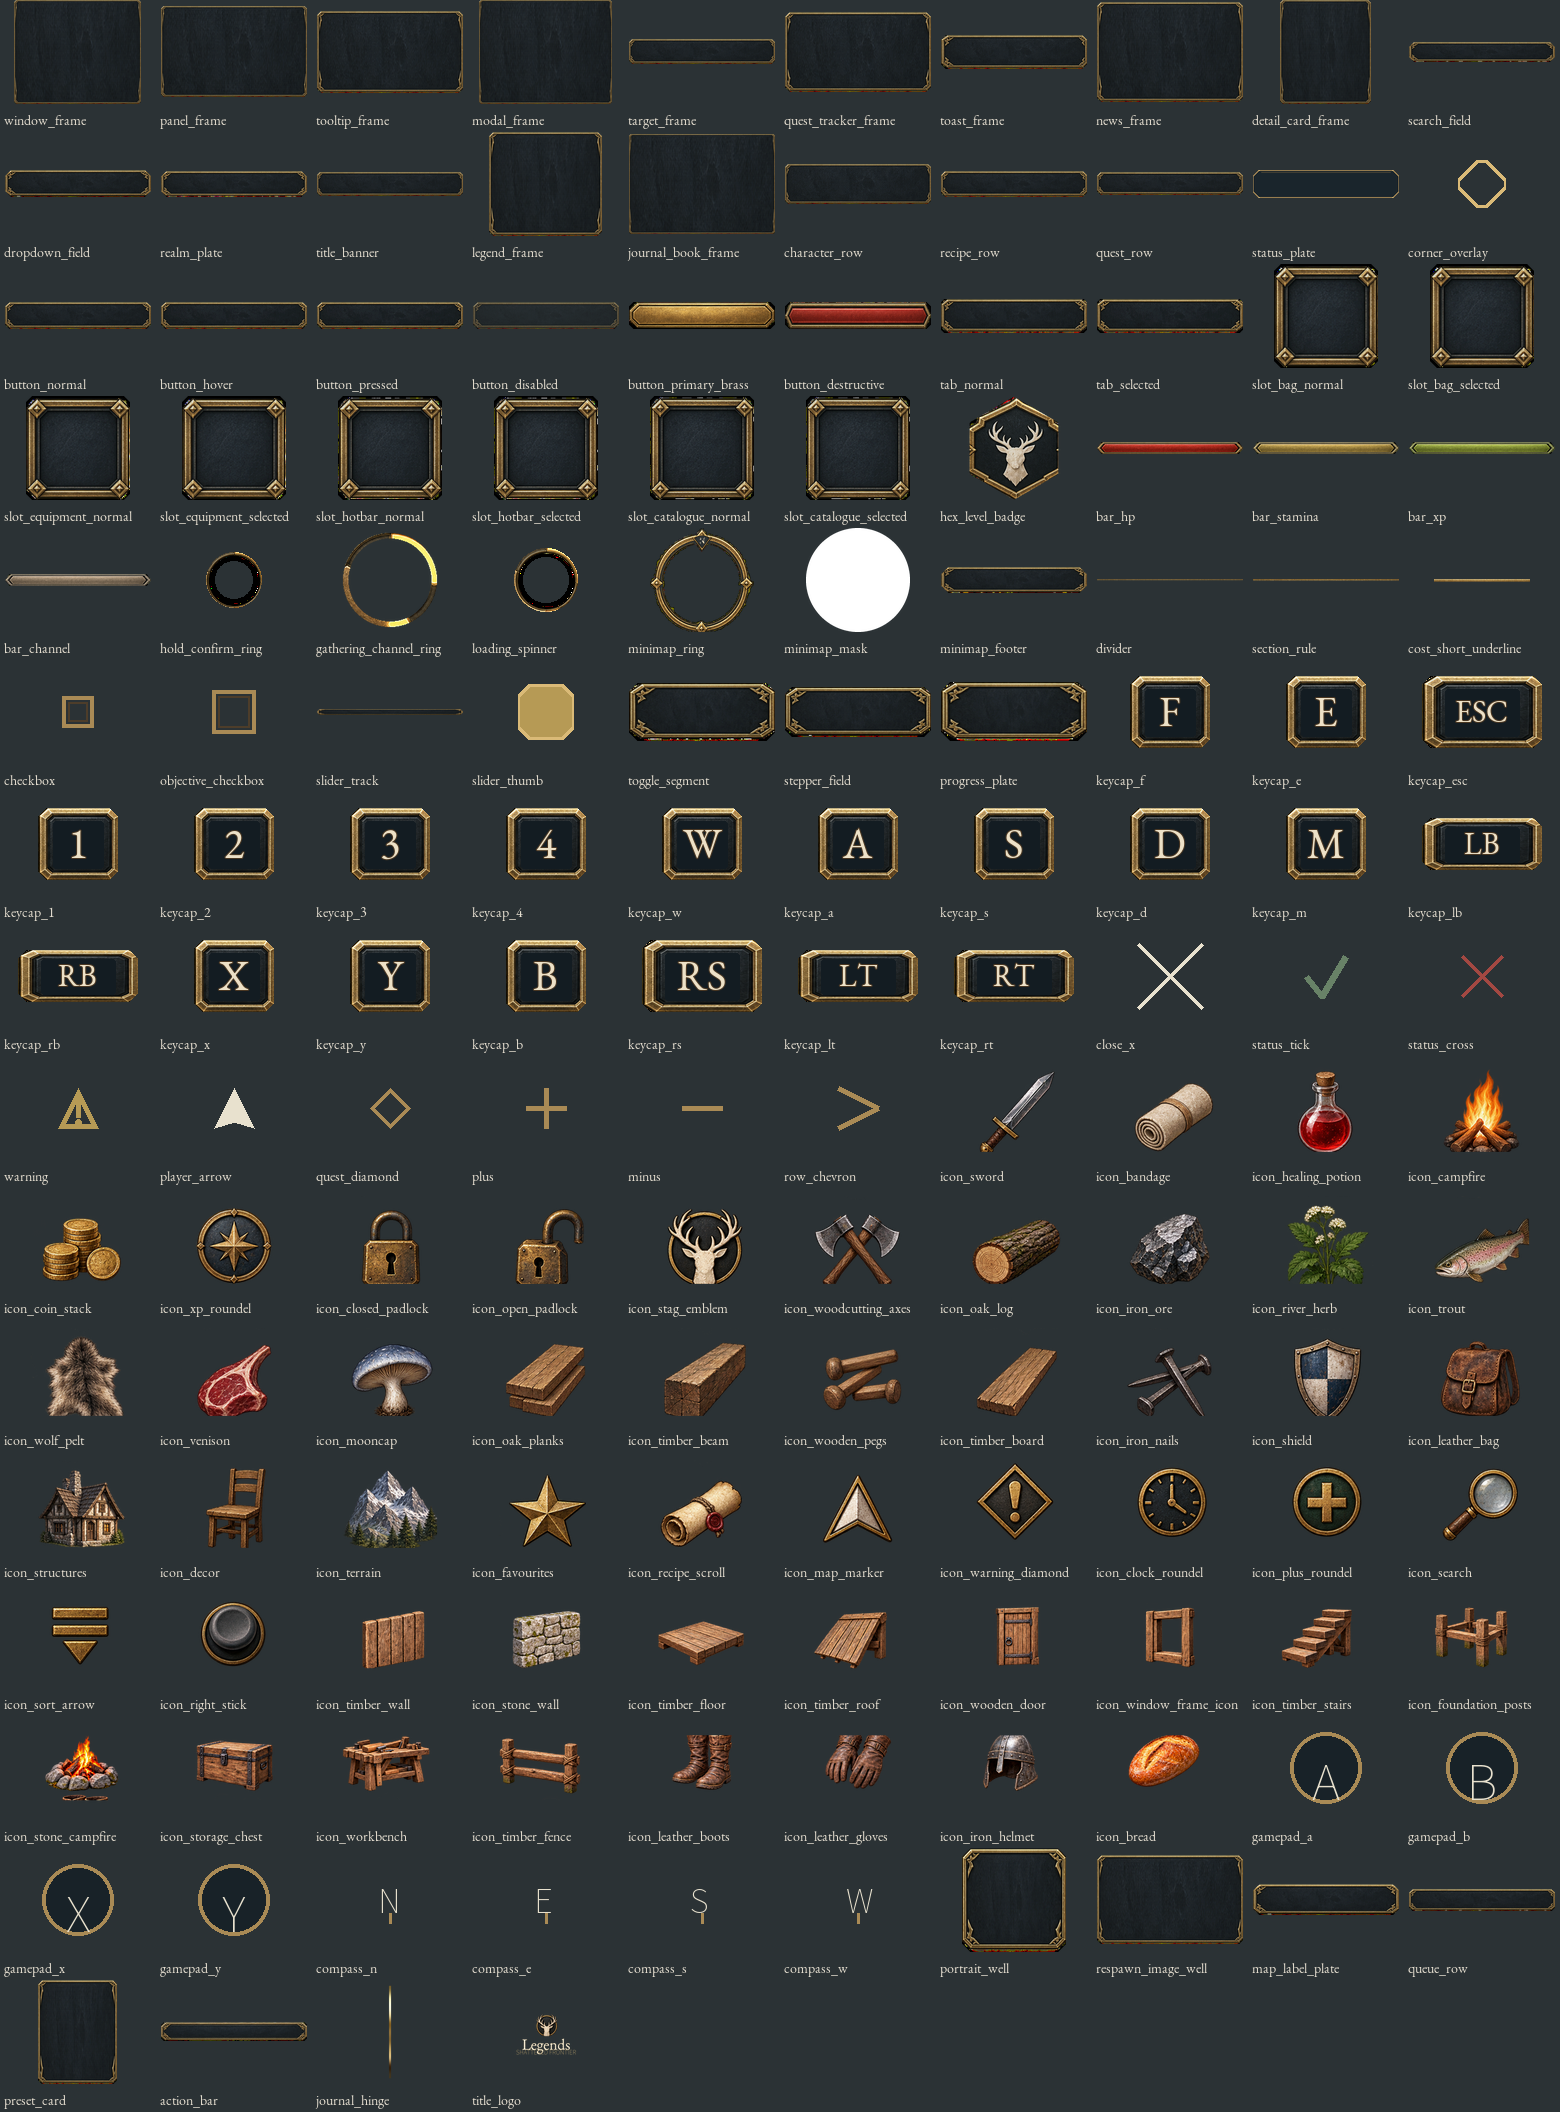
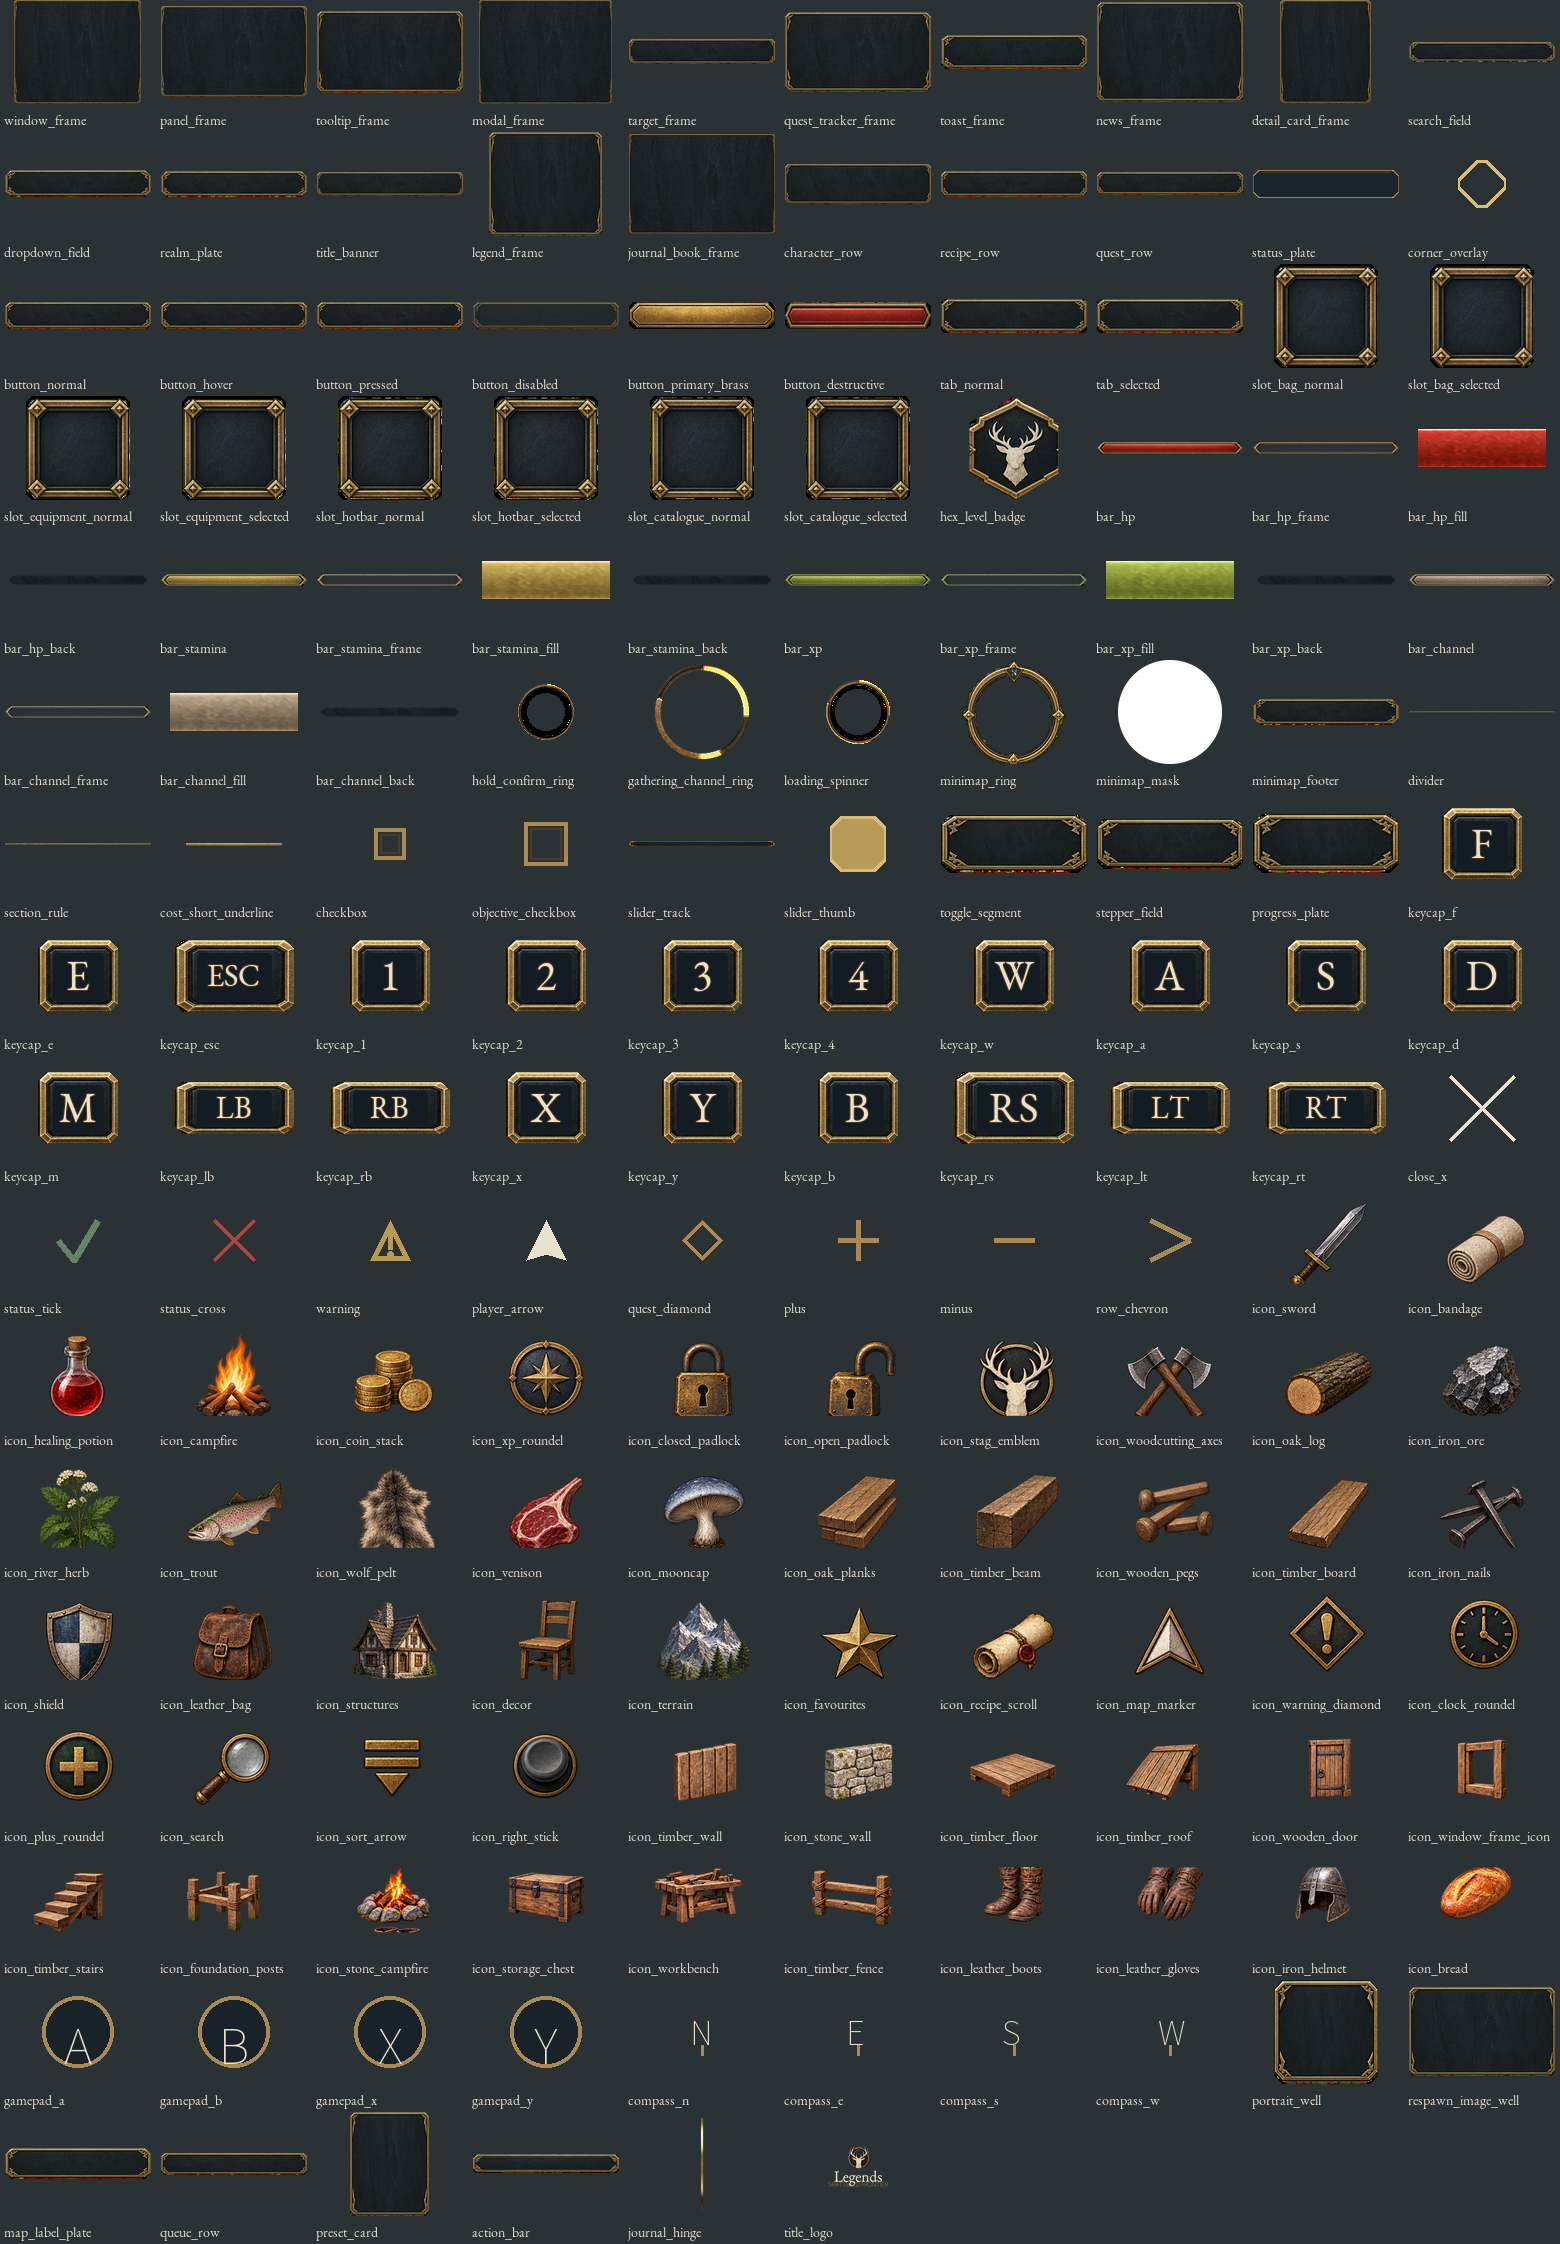
Split Kit-v5 HUD bars into dynamic layers

diff --git a/GameClient/ArtSource/UI/Kit-v5/split_bars.py b/GameClient/ArtSource/UI/Kit-v5/split_bars.py
@@ -1,0 +1,58 @@
+"""Derive independently compositable bar layers from the baked Kit-v5 PNGs."""
+from pathlib import Path
+from PIL import Image, ImageDraw
+
+ROOT = Path(__file__).parent
+NAMES = ("bar_hp", "bar_stamina", "bar_xp", "bar_channel")
+SIZE = (760, 64)
+# Full-size frame aperture; its narrow dark rim remains part of the casing.
+APERTURE = ((18, 32), (42, 9), (718, 9), (742, 32), (718, 55), (42, 55))
+FILL_RECT = (42, 13, 718, 51)
+TILE_LEFT, TILE_WIDTH = 316, 128
+
+
+def aperture_mask():
+    scale = 4
+    mask = Image.new("L", (SIZE[0] * scale, SIZE[1] * scale))
+    ImageDraw.Draw(mask).polygon([(x * scale, y * scale) for x, y in APERTURE], fill=255)
+    return mask.resize(SIZE, Image.Resampling.LANCZOS)
+
+
+def seamless_fill(source):
+    left, top, right, bottom = FILL_RECT
+    tile = source.crop((TILE_LEFT, top, TILE_LEFT + TILE_WIDTH, bottom)).convert("RGBA")
+    # Blend both ends toward their mean so repetition has no visible edge.
+    pixels = tile.load()
+    for y in range(tile.height):
+        edge = tuple((pixels[0, y][c] + pixels[tile.width - 1, y][c]) // 2 for c in range(3))
+        for x in range(12):
+            for pos in (x, tile.width - 1 - x):
+                weight = (12 - x) / 13
+                original = pixels[pos, y]
+                pixels[pos, y] = tuple(round(original[c] * (1 - weight) + edge[c] * weight) for c in range(3)) + (255,)
+        pixels[0, y] = pixels[tile.width - 1, y] = edge + (255,)
+    return tile
+
+
+def main():
+    mask = aperture_mask()
+    for name in NAMES:
+        source = Image.open(ROOT / f"{name}.png").convert("RGBA")
+        assert source.size == SIZE
+        frame = source.copy()
+        alpha = frame.getchannel("A")
+        alpha.putdata([round(a * (255 - m) / 255) for a, m in zip(alpha.getchannel(0).get_flattened_data(), mask.get_flattened_data())])
+        frame.putalpha(alpha)
+        frame.putdata([(r, g, b, a) if a else (0, 0, 0, 0) for r, g, b, a in frame.get_flattened_data()])
+        frame.save(ROOT / f"{name}_frame.png")
+        seamless_fill(source).save(ROOT / f"{name}_fill.png")
+
+        # The target plate's slate texture supplies the empty trough treatment.
+        slate = Image.open(ROOT / "target_frame.png").convert("RGBA").crop((80, 42, 740, 98))
+        slate = slate.resize(SIZE, Image.Resampling.BILINEAR)
+        slate.putalpha(mask)
+        slate.save(ROOT / f"{name}_back.png")
+
+
+if __name__ == "__main__":
+    main()

diff --git a/GameClient/ArtSource/UI/Kit-v5/preview.py b/GameClient/ArtSource/UI/Kit-v5/preview.py
@@ -2,6 +2,7 @@
 from pathlib import Path
 import json
 import math
+import sys
 from PIL import Image, ImageDraw, ImageFont
 
 ROOT=Path(__file__).parent
@@ -25,6 +26,8 @@ for i,name in enumerate(names):
     contact.paste(im,(x+(cw-im.width)//2,y+(ch-28-im.height)//2),im)
     draw.text((x+4,y+ch-22),name,font=font,fill=(229,222,208))
 contact.save(CONCEPT/'kit-v5-contact.png')
+if '--contact-only' in sys.argv:
+    raise SystemExit(0)
 
 master=Image.open(CONCEPT/'gameplay-hud.png').convert('RGB')
 # Scene-only center crop removes the master HUD; it is the sole background layer.

diff --git a/docs/dependency-map.md b/docs/dependency-map.md
@@ -294,6 +294,7 @@ Development network construction: `SFConstructionNetwork.h/.cpp` owns opt-in ded
 | Silverbrook boar combat pilot | `docs/gameplay-combat-pilot.md` | `GameClient/Source/ShatteredFrontier/{Public,Private}/Combat/SFCombatPilot.*`, `Combat/SFCombatPilotRewards.*`, `Characters/SFE1Character.*`, `BackendServices/WorldContent.Tool/CombatPilotBridge.cs`, Silverbrook zone record, `tools/Create-CombatPilotItems.py` | Build WorldContent.Tool and Editor; `ShatteredFrontier.Combat.Pilot.Rules` and `.Reward`; `tools/Test-CombatPilot.ps1` dedicated server/client, hide reward and slot respawn. |
 | Silverbrook iron vein gathering content | `GameClient/ArtSource/Greenlands/silverbrook-town-layout.json` | `zone_record.py` designates selected outdoor rock candidates as `gathering_node/iron_vein` in `content/world/zones/greenlands_silverbrook.json`; recheck IDs after dressing regeneration. | Run `zone_record.py`, `validate_layout.py`, and pinned SDK WorldContent.Tool, GatheringNodes.Tests and ClaimTerritory.Tests commands in their READMEs. No Unreal builder or map change. |
 | HUD-v1 v4 art kit gaps | `docs/Game-Design/concept-art/UI/HUD-v1/hud-layout-v4.md`, `GameClient/ArtSource/UI/HUD-Kit-v1/README.md` | `GameClient/ArtSource/UI/HUD-Kit-v1/source/`, `processed/`, `prompts.md`; status, input, hold ring, toast sources only | Verify 20 processed RGBA PNGs have exact sizes and transparent corners; editor import and widget wiring remain separate. |
+| Kit-v5 dynamic HUD bars | `GameClient/ArtSource/UI/Kit-v5/README.md`, `kit.json`, and `split_bars.py` own separate HP, stamina, XP, and channel frame/fill/back layers; `docs/Game-Design/concept-art/UI/v5/kit-v5-contact.png` previews them. | Rebuild with `py -3 GameClient/ArtSource/UI/Kit-v5/split_bars.py` and `preview.py --contact-only`; verify four transparent apertures, 128x38 fill tiles, and `[42,13,718,51]` inset metadata. |
 | UI Kit v5 structural sprites | `GameClient/ArtSource/UI/Kit-v5/README.md`, `docs/Game-Design/concept-art/UI/v5/gameplay-hud.png` | `Kit-v5/structural-source.png`, `build_structures.py`, `preview.py`, RGBA pieces and `kit.json`; canonical `GameClient/ArtSource/Fonts/` | Run the two Kit-v5 Python scripts and validate all manifest sizes, alpha and slice margins; compare `kit-v5-contact.png` and `kit-v5-hud-mock.png` with the concept. |
 | UI Kit v5 approved art | `docs/Game-Design/concept-art/UI/v5/REVIEW.md`, `GameClient/ArtSource/UI/Kit-v5/README.md` | `GameClient/ArtSource/UI/Kit-v5/kit.json`, 2x RGBA brushes/icons, `GameClient/ArtSource/UI/Fonts/` and `docs/Game-Design/concept-art/UI/v5/kit-v5-contact.png` | Import/wire per-screen art using gameplay-hud as persistent HUD master; scene captures, portraits and map terrain remain integration inputs. |
 | Item icon art and matting | `GameClient/ArtSource/UI/ItemIcons-v1/README.md` | `GameClient/ArtSource/UI/ItemIcons-v1/` owns the 15 item icon pairs, Pillow validation and slate contact sheet. | Run `py GameClient/ArtSource/UI/ItemIcons-v1/validate_icons.py`; review `icons-on-slate.png` for alpha and edge quality. Editor import and HUD binding remain separate. |

diff --git a/GameClient/ArtSource/UI/Kit-v5/README.md b/GameClient/ArtSource/UI/Kit-v5/README.md
@@ -2,6 +2,12 @@
 
 Production art at 2× 1920×1080 UI design size. `kit.json` is the authoritative size, 9-slice and usage manifest. PNGs are straight RGBA; 9-slice margins are stored in output pixels. Use 3-slice semantics for the hex-ended bars and buttons. Text, counts, input mapping and bar percentages remain runtime data. `structural-source.png` is the gpt-image atlas used by `build_structures.py`; `preview.py` rebuilds the contact sheet and a 1920×1080 gameplay HUD study. Run both with Python 3.12 and Pillow from the repository root.
 
+## Dynamic bar layers
+
+`bar_hp`, `bar_stamina`, `bar_xp`, and `bar_channel` remain the original baked references. For runtime values, stack each matching `_back` (optional empty slate trough), `_fill`, then `_frame`. The frame has a transparent aperture and preserves the brass hex ends; its `three_slice_px` gives the left and right fixed margins. `fill_inset_rect_px` is `[left, top, right, bottom]` in the 760×64 source frame, with right and bottom exclusive. All four use `[42, 13, 718, 51]`. Tile the 128×38 fill horizontally, crop it to the current percentage within that rect, and keep its 38 px height. The fill has no end caps; the frame covers its square edges. The `_back` uses the target plate's slate texture. `target_frame` has no baked health fill, so it needs no target bar layers. These are art placement dimensions, not gameplay tuning values.
+
+Regenerate the layers with `py -3 GameClient/ArtSource/UI/Kit-v5/split_bars.py`; rebuild only the contact sheet with `py -3 GameClient/ArtSource/UI/Kit-v5/preview.py --contact-only`.
+
 ## Screen to piece map
 
 ### gameplay-hud
